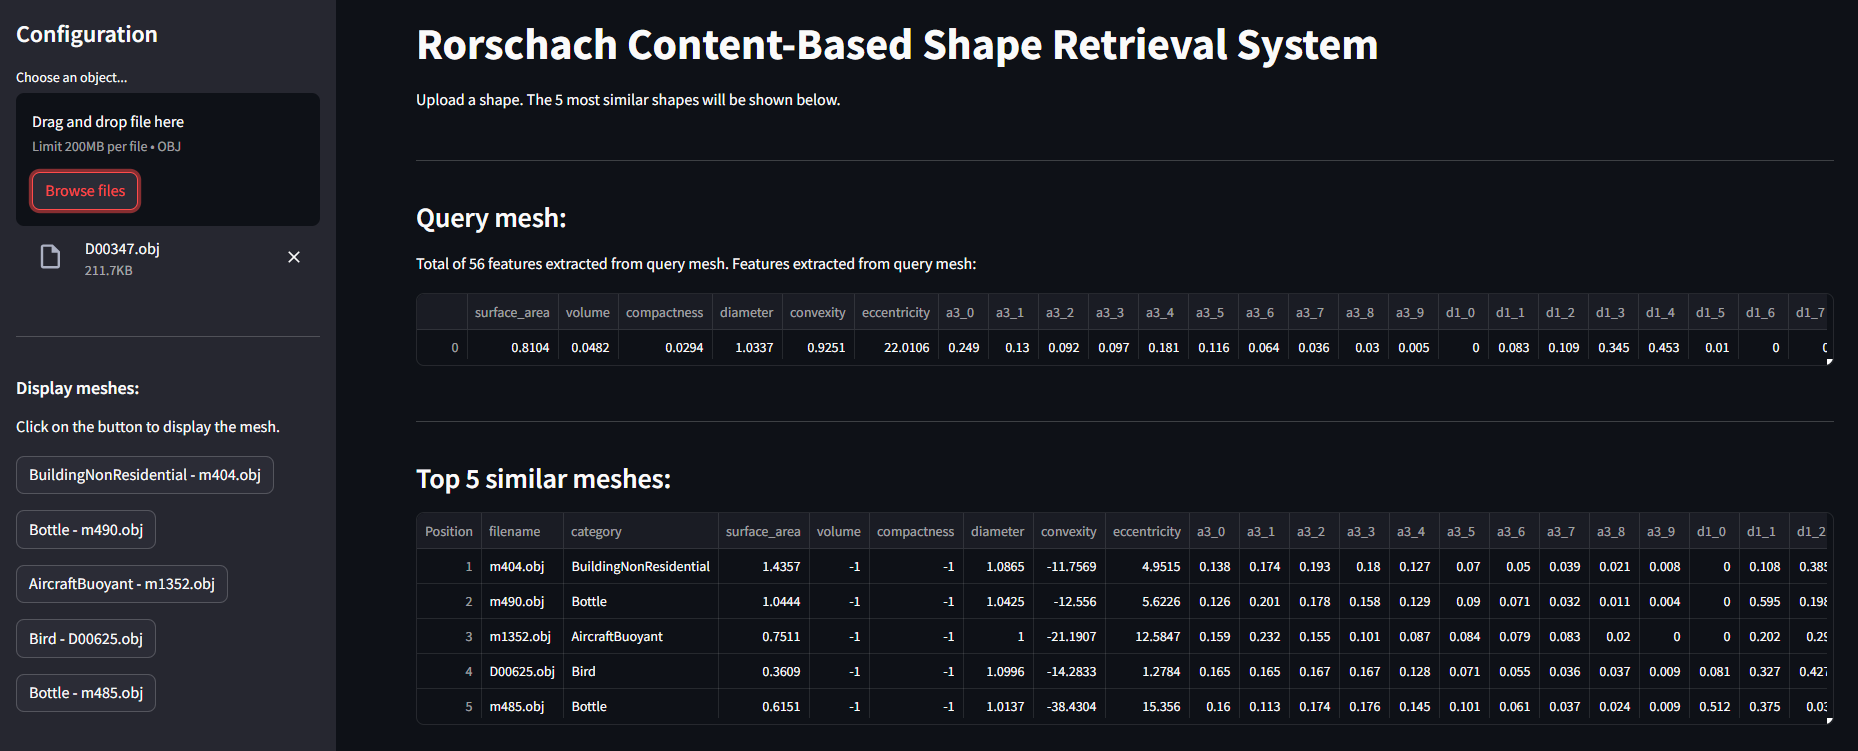
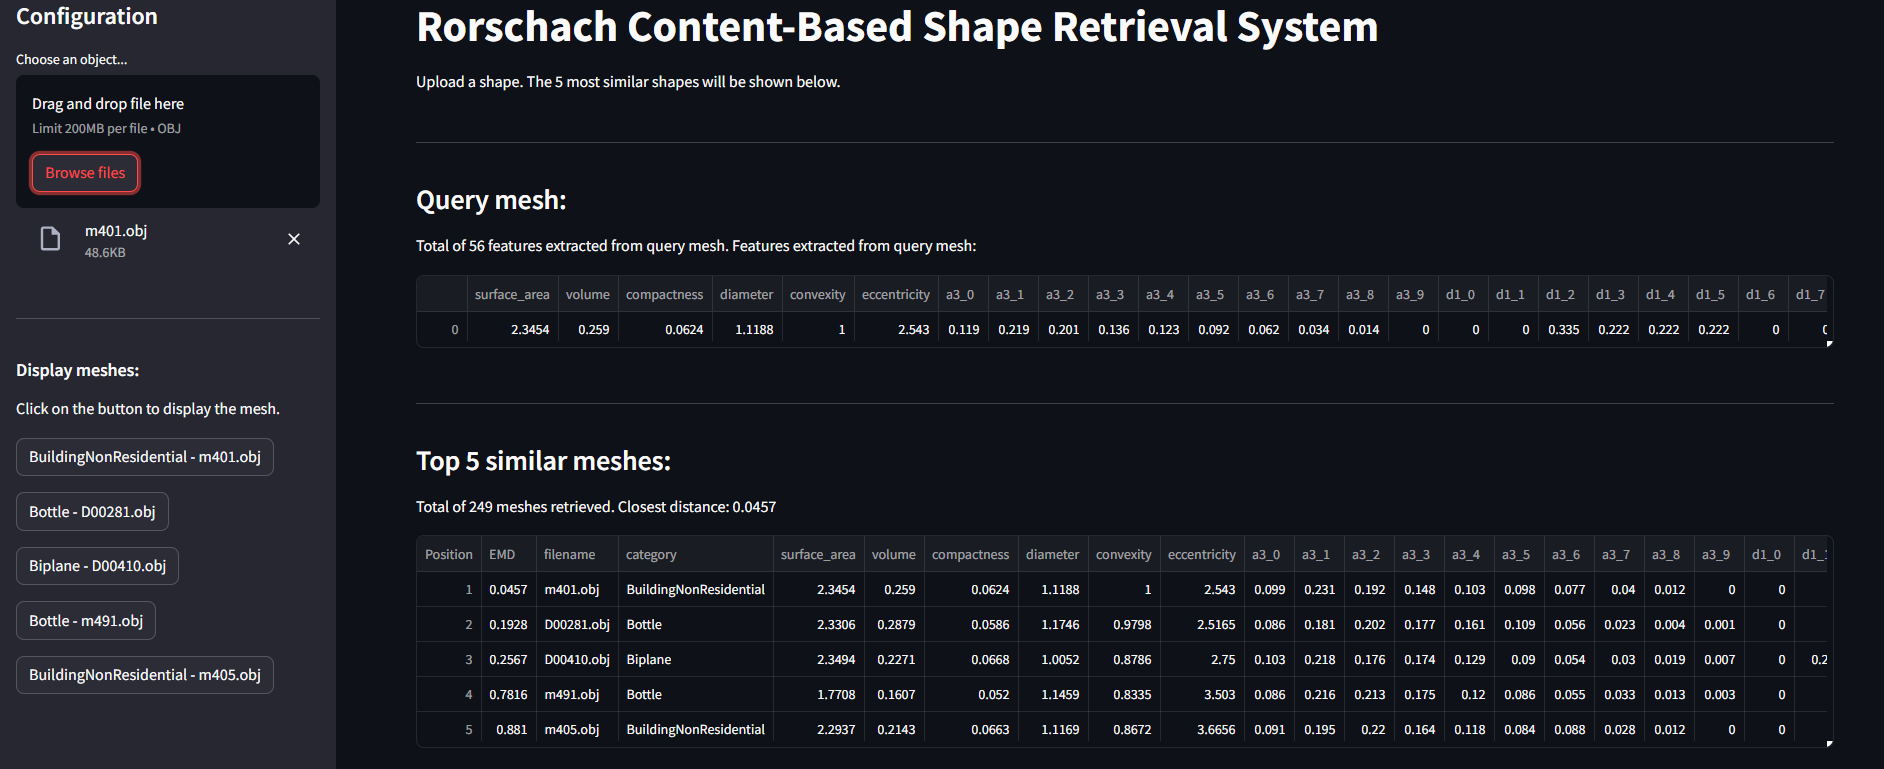
Added EMD to viz

diff --git a/code/query_frontend.py b/code/query_frontend.py
@@ -60,13 +60,17 @@ if uploaded_file is not None:
     st.subheader(f"Top {TOP_N} similar meshes:")
     with st.spinner("Retrieving similar meshes..."):
         # Create an ordered list of meshes retrieved from the dataset based on EMD (with respect to the query mesh)
-        returned_meshes = query(features_query, df_features, fp_data)
+        retrieved_meshes, retrieved_scores = query(features_query, df_features, fp_data)
+        st.write(f"Total of {len(retrieved_meshes)} meshes retrieved. Closest distance: {retrieved_scores[0]:.4f}")
 
         # Split list into category and filename
-        category, filename = zip(*[mesh.split("/")[-2:] for mesh in returned_meshes])
+        category, filename = zip(*[mesh.split("/")[-2:] for mesh in retrieved_meshes])
 
         # Save to dataframe
-        df_returned = pd.DataFrame({"Position": range(1, len(category)+1), "Category": category, "Filename": filename})
+        df_returned = pd.DataFrame({"Position": range(1, len(category)+1),
+                                    "Category": category,
+                                    "Filename": filename,
+                                    "EMD": retrieved_scores})
         df_returned.set_index("Position", inplace=True)
         df_returned = df_returned.head(TOP_N)
         print(df_returned)
@@ -79,6 +83,12 @@ if uploaded_file is not None:
         df_features.reset_index(inplace=True)
         # Add column with position
         df_features["Position"] = df_returned.index.tolist()
+        # Add column with EMD
+        df_features["EMD"] = df_returned["EMD"].tolist()
+        # Move EMD column to the front
+        cols = df_features.columns.tolist()
+        cols = cols[-1:] + cols[:-1]
+        df_features = df_features[cols]
         # Set new index
         df_features.set_index("Position", inplace=True)
         # Display dataframe

diff --git a/code/querying.py b/code/querying.py
@@ -104,9 +104,9 @@ def query(features_query, df_features, fp_data) -> list:
     sorted_emd_dict = sorted(emd_dict.items(), key=lambda item: item[1], reverse=False)
 
     # Store the sorted filenames
-    sorted_meshes = [item[0] for item in sorted_emd_dict]
+    sorted_meshes, sorted_scores = zip(*sorted_emd_dict)
 
-    return sorted_meshes
+    return sorted_meshes, sorted_scores
 
 
 if __name__ == "__main__":
@@ -127,9 +127,9 @@ if __name__ == "__main__":
     print(f"Total of {len(features_query)} features extracted from query mesh.")
 
     # Create an ordered list of meshes retrieved from the dataset based on EMD (with respect to the query mesh)
-    returned_meshes = query(features_query, df_features, fp_data)
+    returned_meshes, sorted_scores = query(features_query, df_features, fp_data)
     print(f"Number of returned meshes: {len(returned_meshes)}")
-    print(f"Best match: {returned_meshes[0]}")
+    print(f"Best match: {returned_meshes[0]} with EMD: {sorted_scores[0]:3f}")
 
     # Visualize query mesh and desired mesh from returned mesh list (index 0: best match, index -1: worst match)
     meshes_to_visualize = [fp_query, returned_meshes[0]]
